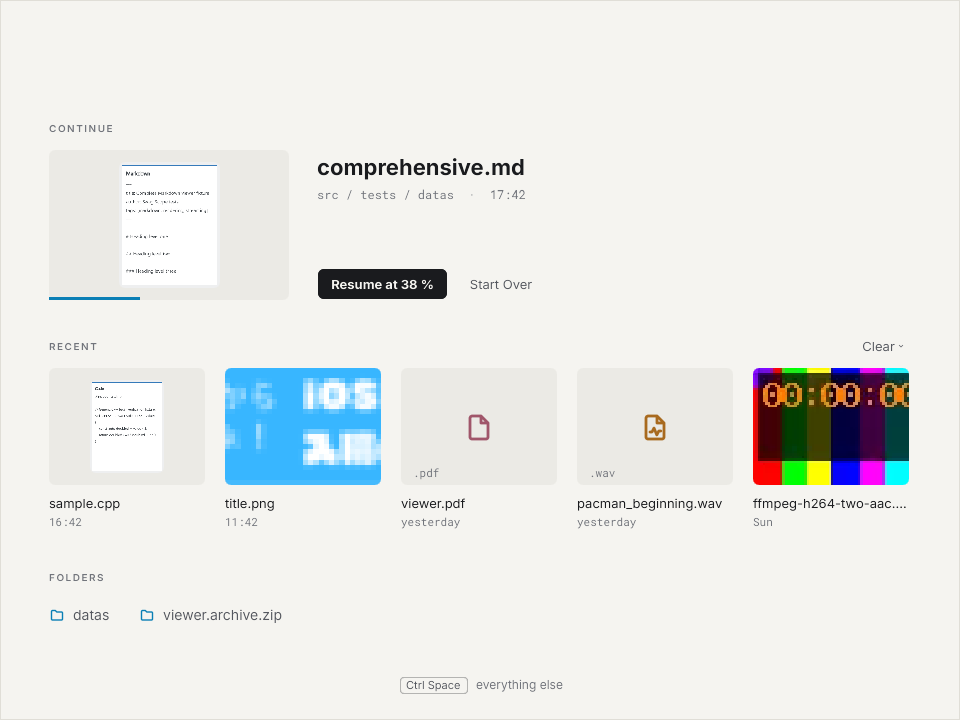
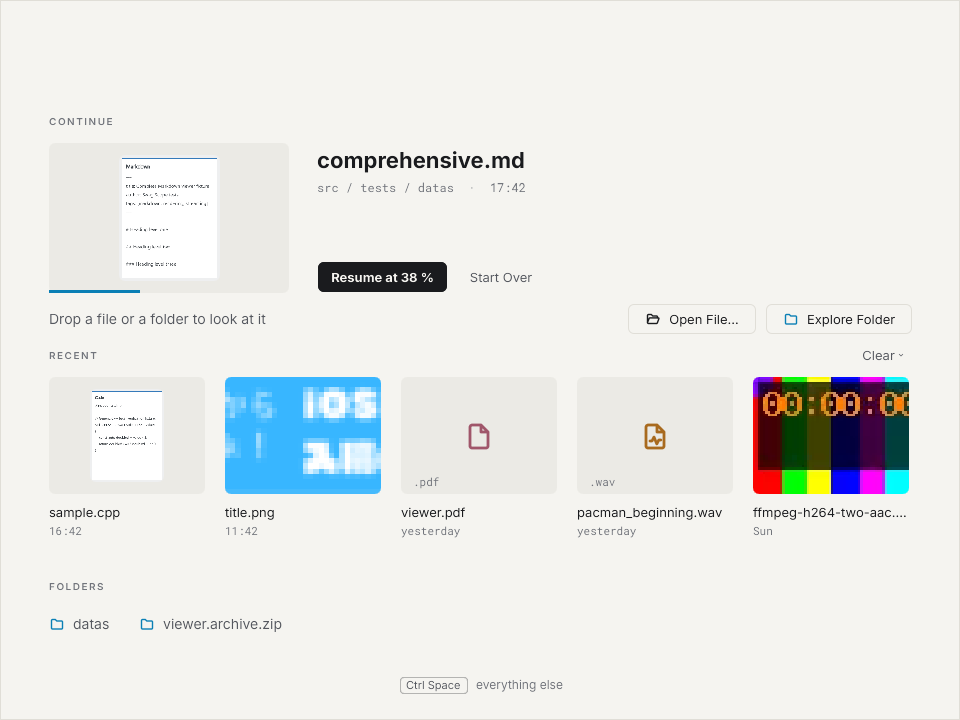
Keep open and drop actions on Scope home

diff --git a/backlog/design/README.md b/backlog/design/README.md
@@ -647,9 +647,11 @@ the screen to its work.
   the entries whose file is gone, with their count, the entries older than a month — and, apart
   and in critical ink, clearing everything, which asks first. **Folders** lists the folders and
   archives explored lately as quiet chips that explore them; it is the first part to give way
-  when the window is too short. Without any history the page keeps the Scope mark, large and
-  faint, one line inviting a drop, the two direct actions Open… and Explore Folder, and the
-  system's **Places** to explore, centred together. Older entries are in the lens under `/`.
+  when the window is too short. A line between the last file and the recent tiles invites a file
+  or folder drop and keeps the direct actions **Open File…** and **Explore Folder** available.
+  Without any history the page keeps the Scope mark, large and faint, that invitation, the same
+  two actions, and the system's **Places** to explore, centred together. Older entries are in the
+  lens under `/`.
 
 ![Archive](imgs/scope.archive.png) ![Archive on Papier](imgs/scope.archive.paper.png)
 
